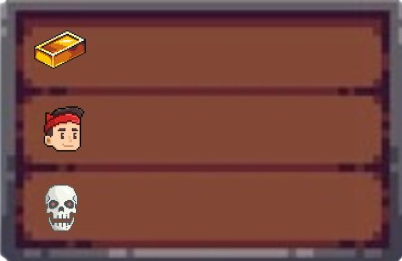
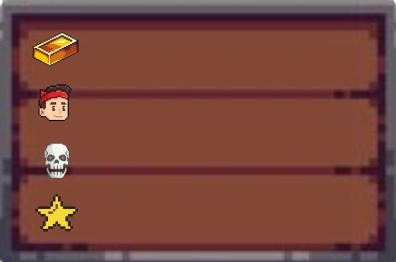
Shows Evolution Stage

diff --git a/StatsHUD.java b/StatsHUD.java
@@ -21,19 +21,23 @@ public class StatsHUD extends Actor {
 
     private void updateStats() {
 
-        String text;
+    String text;
 
-        if (isLeftSide) {
-            text =
-                "ROBOT CASH:    " + Units.robotCash + "\n" + "\n"+ "\n"+
-                "ROBOTS ALIVE:  " + Units.robotsAlive + "\n" + "\n"+ "\n"+
-                "ROBOTS DEAD:   " + Units.robotsDead;
-        } else {
-            text =
-                "HUMAN CASH:    " + Units.humanCash + "\n" + "\n"+ "\n"+
-                "HUMANS ALIVE:  " + Units.humansAlive + "\n" + "\n"+ "\n"+
-                "HUMANS DEAD:   " + Units.humansDead;
-        }
+    int humanLevel = MyWorld.getHumanLevel();
+    int robotLevel = MyWorld.getRobotLevel();
+    if (isLeftSide) {
+        text =
+            "ROBOT CASH:    " + Units.robotCash + "\n\n" +
+            "ROBOTS ALIVE:  " + Units.robotsAlive + "\n\n" +
+            "ROBOTS DEAD:   " + Units.robotsDead + "\n\n" +
+            "STAGE:         " + robotLevel;
+    } else {
+        text =
+            "HUMAN CASH:    " + Units.humanCash + "\n\n" +
+            "HUMANS ALIVE:  " + Units.humansAlive + "\n\n" +
+            "HUMANS DEAD:   " + Units.humansDead + "\n\n" +
+            "STAGE:         " + humanLevel;
+    }
 
         // panel size
         GreenfootImage img = new GreenfootImage(140, 200);

diff --git a/MyWorld.java b/MyWorld.java
@@ -99,7 +99,7 @@ public class MyWorld extends World {
     private int robotFactoryInterval = 1500;
     private int modernMultiplier = 2; 
 
-    private int evolutionStage = 1; // stage 1
+    private static int  evolutionStage = 1; // stage 1
     private int maxHumans = 10;
     private int maxRobots = 10;
 
@@ -389,6 +389,16 @@ public class MyWorld extends World {
         int x = 350; // fixed left side
         int y = 175 ;
         addObject(new Factory(), x, y);
+    }
+    
+    public static int getHumanLevel()
+    {
+        return evolutionStage;
+    }
+    
+    public static int getRobotLevel()
+    {
+        return evolutionStage;
     }
 }
 
